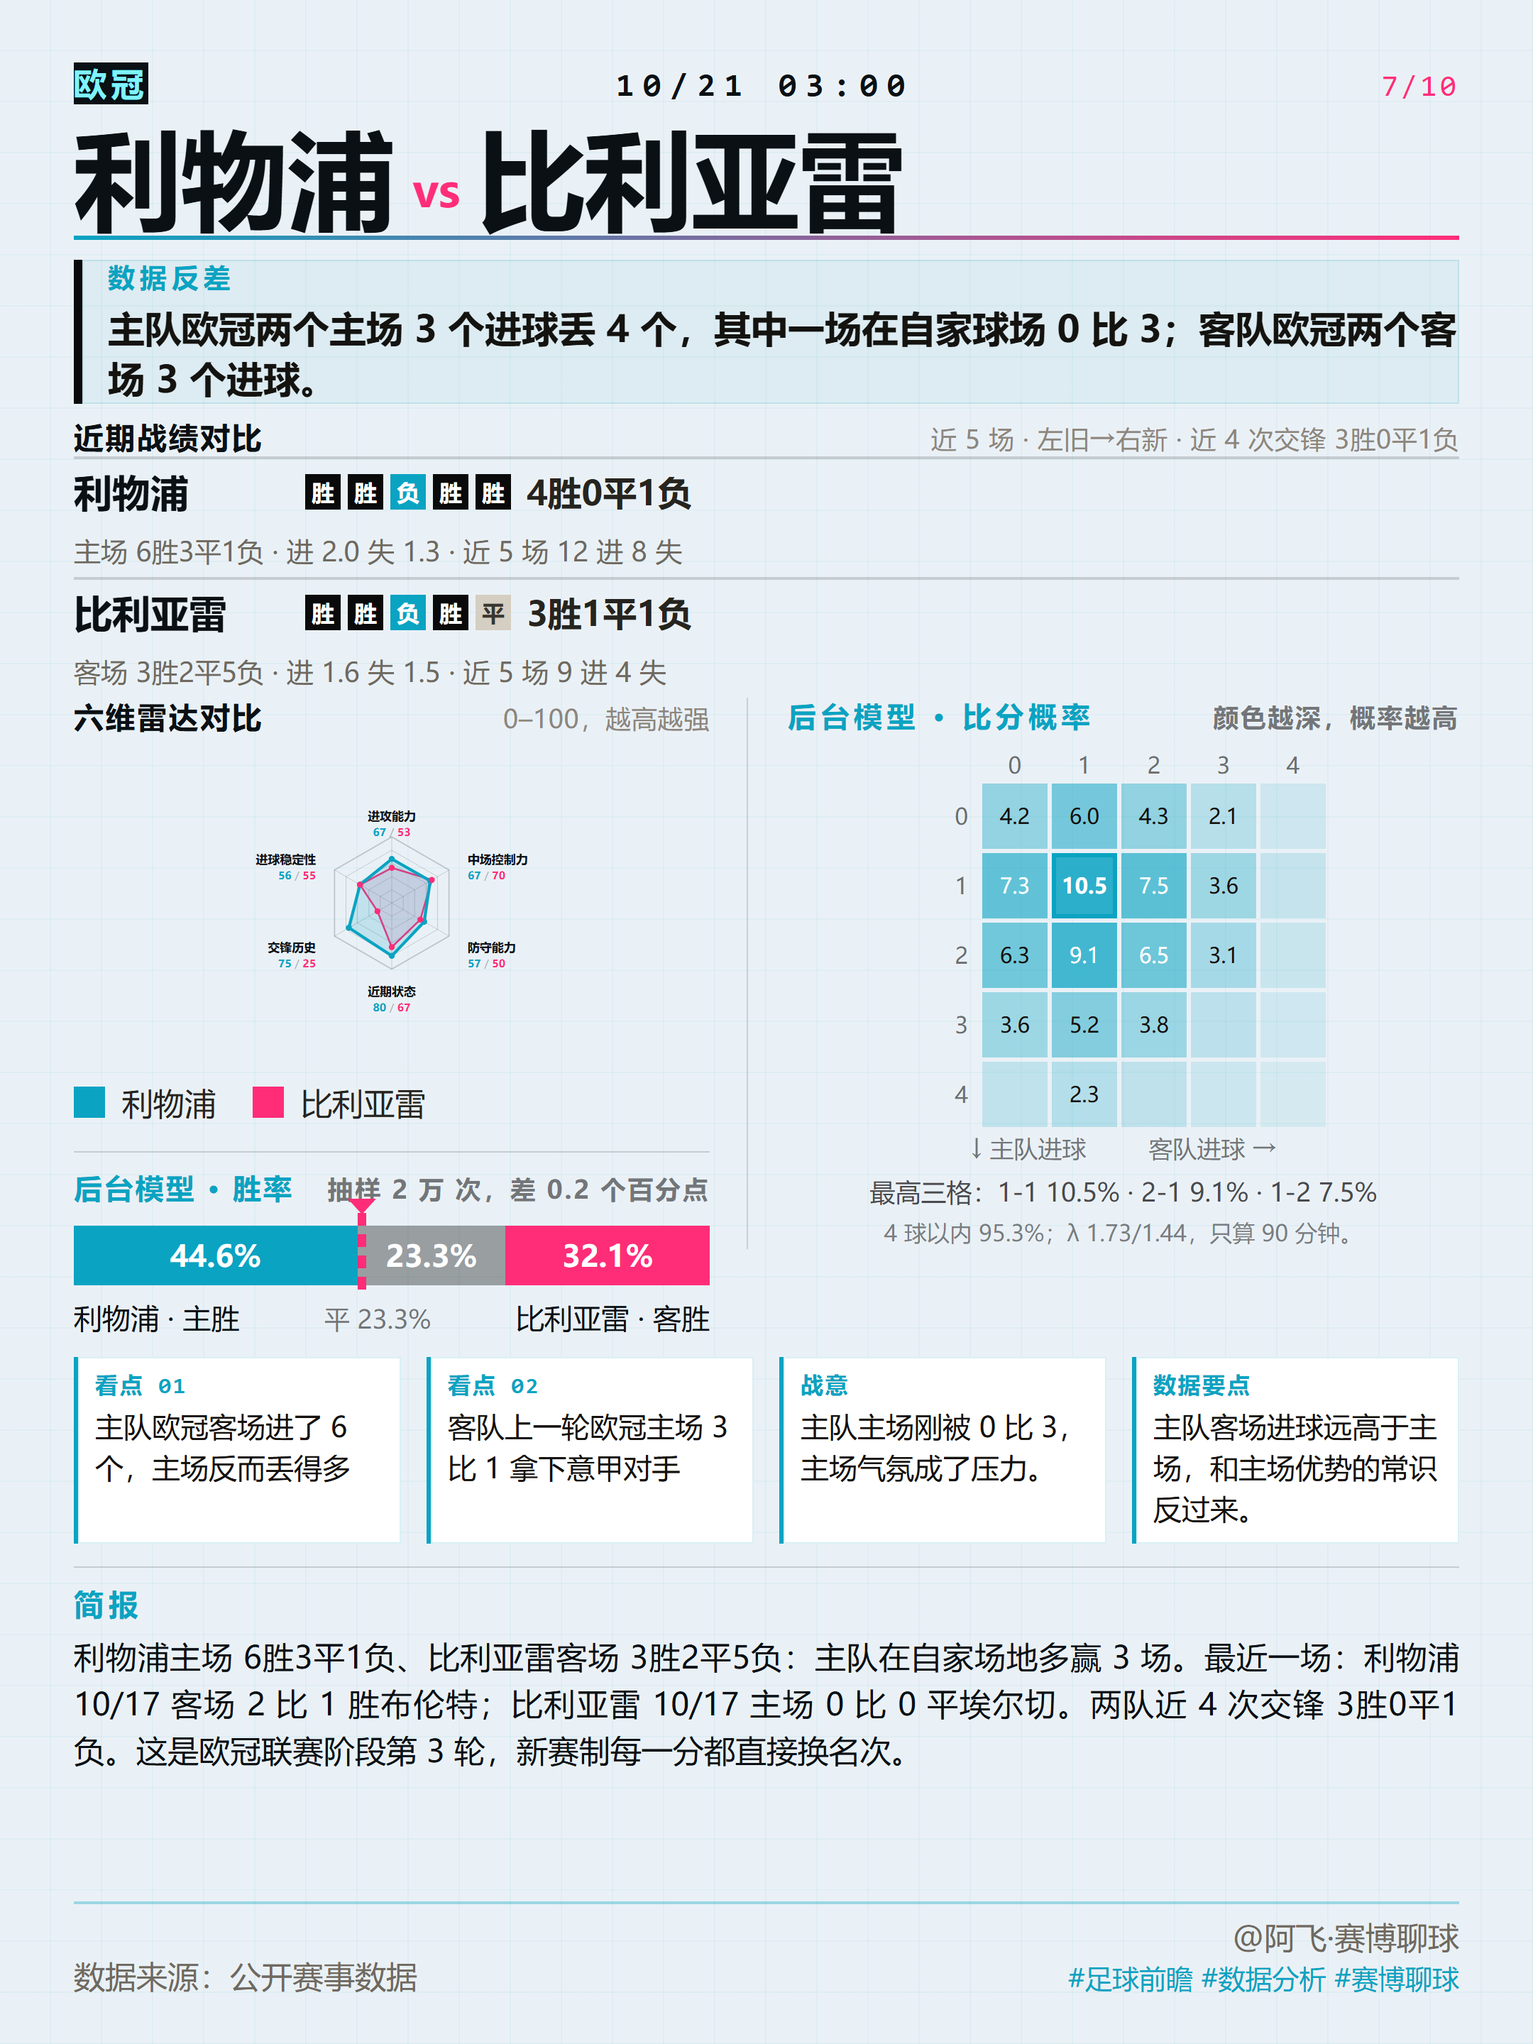
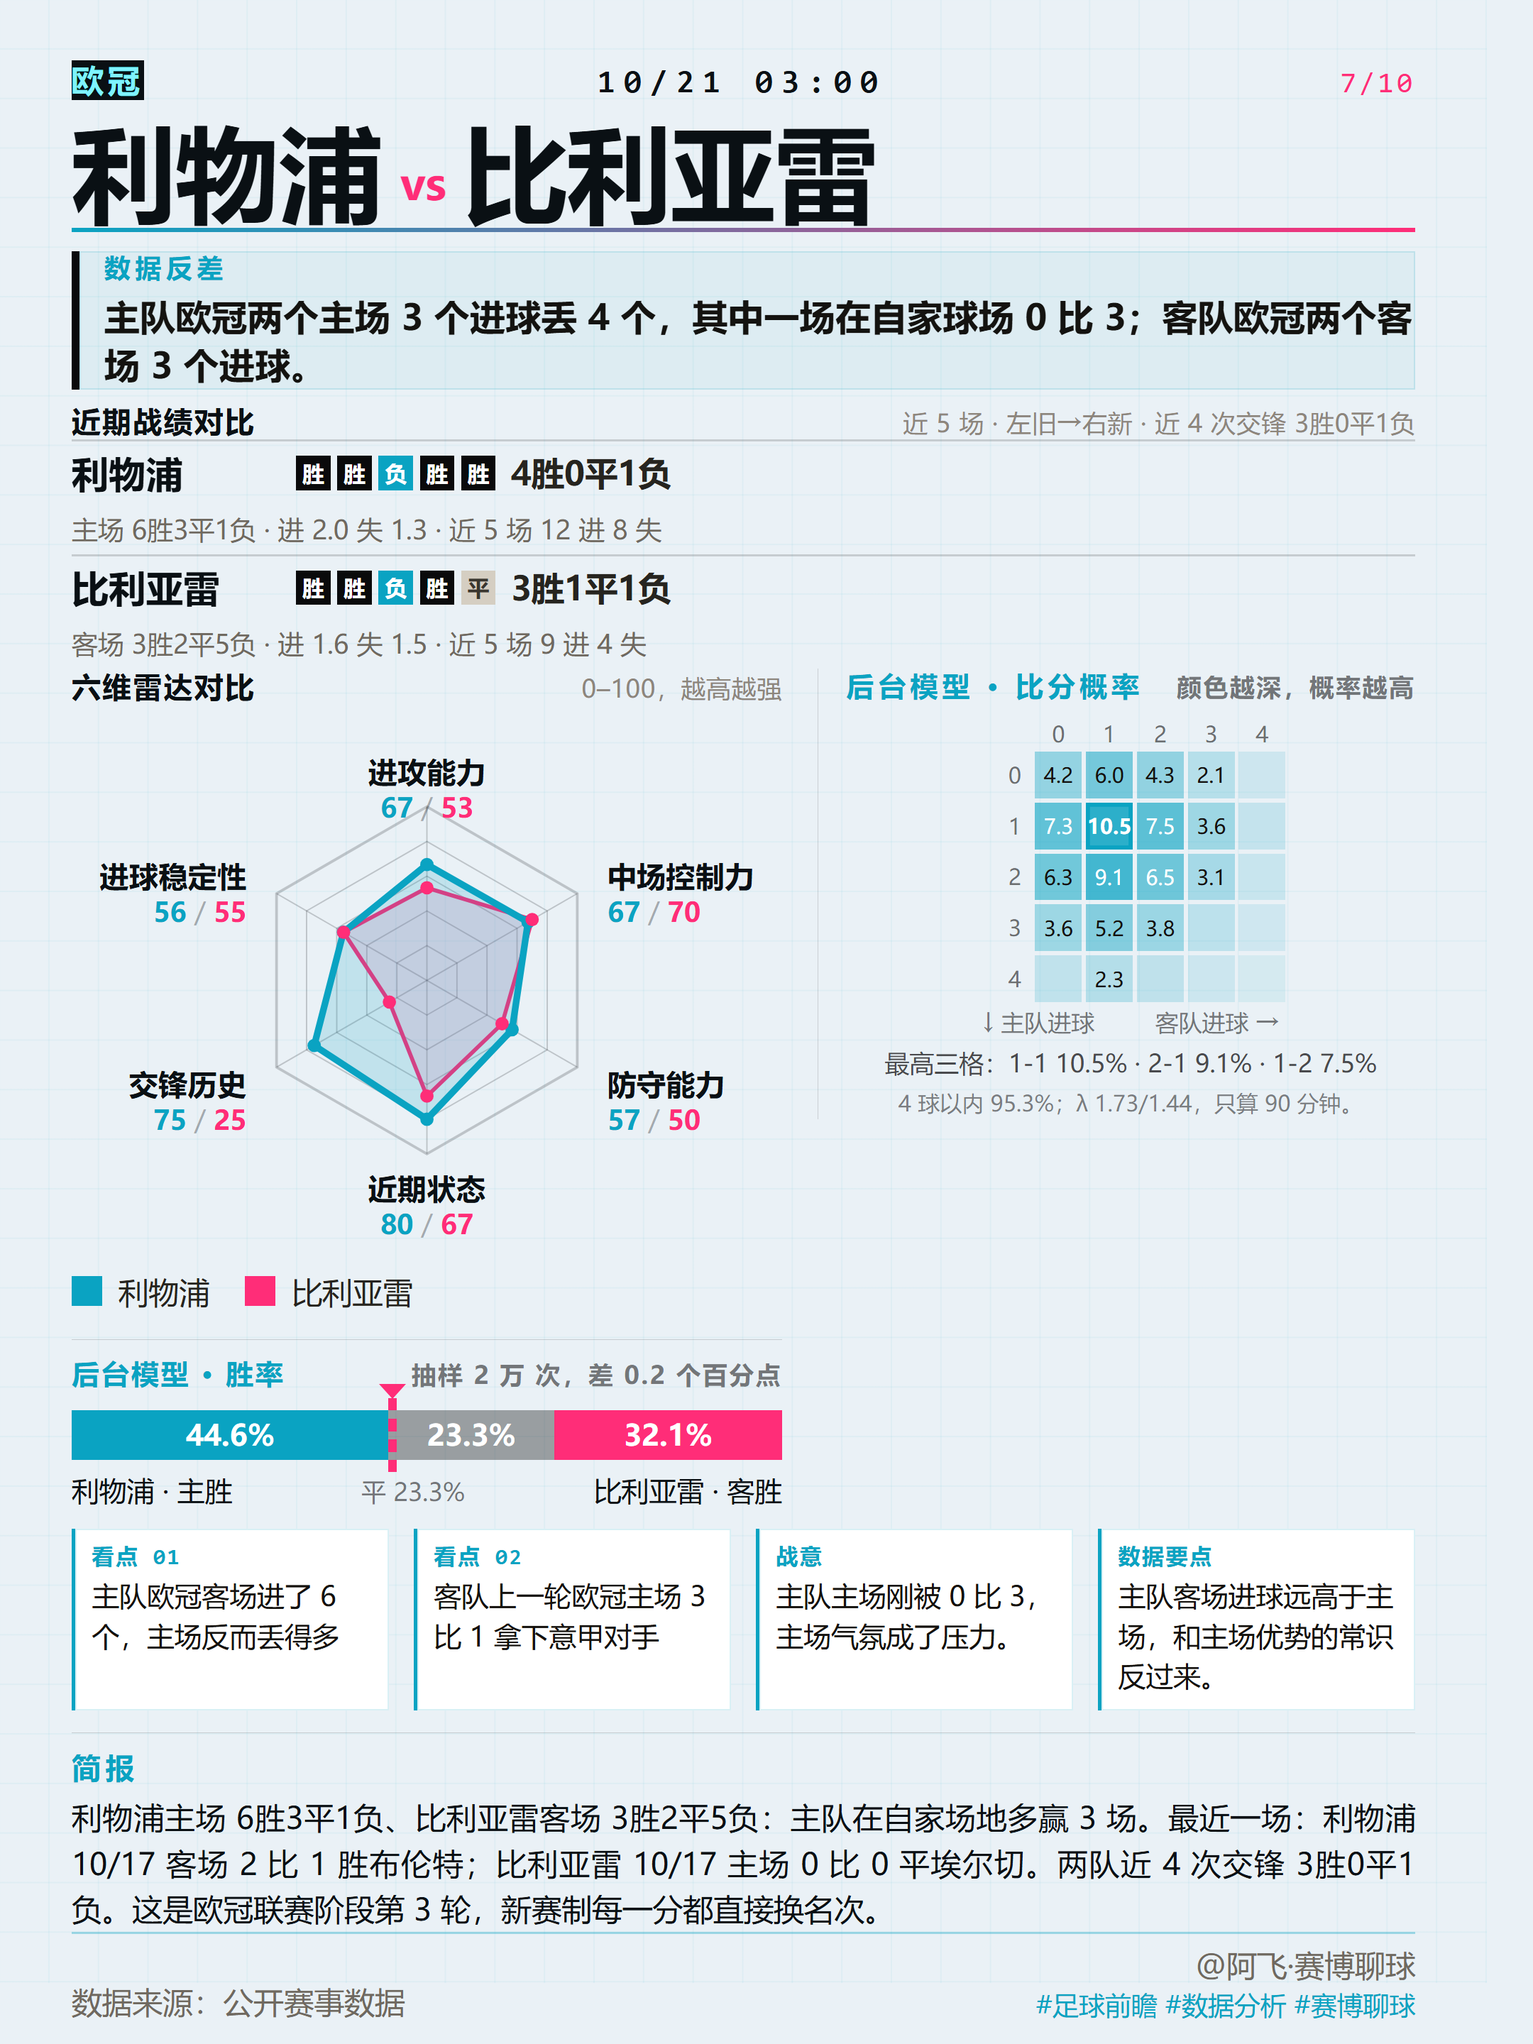
小红书周二九场：按7场深报重写内容、雷达字号放大2.6倍、未开售场次标注

diff --git a/scripts/xhs_html.py b/scripts/xhs_html.py
@@ -518,11 +518,12 @@ DATA_CSS = """
 /* ── 后台模型块：胜率条 + 比分概率热力图（2026-10-13 起并入同一张卡）──────
    用户 2026-10-12 拍板「模型结果要进卡片」，2026-10-13 再定「只出一张卡」，
    所以模型块不再单开一张，改成左右两栏：左栏＝六维雷达＋胜率条，右栏＝比分概率热力图。 */
-.card.data .viz .c1{flex:0 0 448px}
-.card.data .viz .c2{flex:1;min-width:0;padding-left:28px;border-left:1px solid rgba(10,10,11,.14)}
+.card.data .viz .c1{flex:0 0 516px}
+.card.data .viz .c2{flex:1;min-width:0;padding-left:20px;border-left:1px solid rgba(10,10,11,.14)}
+.card.data .viz .c2 .head2{white-space:nowrap}
 .card.data .viz .radar{margin-top:0;padding-top:0}
 /* 雷达默认会撑满栏宽（448px 栏→340px 方图），并进单卡后必须按 size 收住，否则整行 590px */
-.card.data .viz .radar .wrap svg{width:220px;height:220px;max-width:none;display:block;margin:0 auto}
+.card.data .viz .radar .wrap svg{width:516px;height:auto;max-width:none;display:block;margin:0 auto}
 .card.data .viz .wdl .head2{flex-wrap:nowrap;white-space:nowrap;margin-bottom:10px}
 .card.data .viz .wdl .lab{letter-spacing:.08em}
 .card.data .viz .wdl{margin-top:14px;padding-top:12px;border-top:1px solid rgba(10,10,11,.16)}
@@ -564,6 +565,7 @@ DATA_CSS = """
 .hax{display:flex;justify-content:center;gap:44px;font-size:17px;color:rgba(10,10,11,.55);margin-top:4px}
 .hfoot{margin-top:8px;font-size:18px;color:rgba(10,10,11,.72);text-align:center}
 .hnote{margin-top:6px;font-size:16px;line-height:1.45;color:rgba(10,10,11,.5);text-align:center}
+.hnote.mnote{margin-top:4px;color:rgba(10,10,11,.72);font-weight:600}
 .ed.data .wdl .lab,.ed.data .heat .lab{color:#9b5a2e;font-size:20px;font-weight:700;letter-spacing:.16em}
 """
 
@@ -722,8 +724,13 @@ def radar_svg(radar: dict, cluster: str, size: int = 300, label_font: int = 23) 
         c_home, c_away = "#9b5a2e", "#3f5f80"
         f_home, f_away = "rgba(155,90,46,.16)", "rgba(63,95,128,.10)"
         c_grid, c_lab, c_sep = "rgba(10,10,11,.20)", "#26241f", "rgba(10,10,11,.32)"
-    px, py = size + 300, size + 150   # 横向多留 300：六轴标签（5 个字）要比纵向更宽
-    cx, cy, r = px / 2.0, py / 2.0 + 4, size / 2.0
+    # 画布按标签文字实际宽度算（2026-10-20 用户「雷达图要大一倍，数字看不清」）：
+    # 横向 = 圆半径 + 轴向留白 + 最长标签（5 字），纵向 = 顶部标签两行（名字 + 数值）。
+    gap = 26
+    lab_w = label_font * 5
+    px = int(2 * (size / 2.0 + gap + lab_w))
+    py = int(2 * (size / 2.0 + gap + label_font * 2))
+    cx, cy, r = px / 2.0, py / 2.0, size / 2.0
 
     def axis(i):
         a = math.radians(-90 + 360.0 / n * i)
@@ -758,7 +765,7 @@ def radar_svg(radar: dict, cluster: str, size: int = 300, label_font: int = 23) 
     labels = ""
     for i, d in enumerate(dims):
         ca, sa = axis(i)
-        lx, ly = cx + (r + 36) * ca, cy + (r + 36) * sa + 8
+        lx, ly = cx + (r + gap) * ca, cy + (r + gap) * sa + 8
         anchor = "middle" if abs(ca) < 0.3 else ("start" if ca > 0 else "end")
         labels += ('<text x="%.1f" y="%.1f" text-anchor="%s" font-size="%d" font-weight="700" '
                    'fill="%s">%s</text>' % (lx, ly, anchor, label_font, c_lab, esc(d)))
@@ -766,7 +773,7 @@ def radar_svg(radar: dict, cluster: str, size: int = 300, label_font: int = 23) 
                    '<tspan fill="%s" font-weight="700">%.0f</tspan>'
                    '<tspan fill="%s"> / </tspan>'
                    '<tspan fill="%s" font-weight="700">%.0f</tspan></text>'
-                   % (lx, ly + 26, anchor, label_font - 2, c_home, hv[i], c_sep, c_away, av[i]))
+                   % (lx, ly + label_font + 4, anchor, label_font - 2, c_home, hv[i], c_sep, c_away, av[i]))
     return ('<svg width="%d" height="%d" viewBox="0 0 %d %d" xmlns="http://www.w3.org/2000/svg">%s%s%s%s%s%s</svg>'
             % (px, py, px, py, grid, polygon(av, c_away, f_away, 3), polygon(hv, c_home, f_home, 5),
                dots, labels, ""))
@@ -846,9 +853,9 @@ def radar_html(card: dict, cluster: str, size: int = 300, label_font: int = 23) 
 # --------------------------------------------------------------------------- #
 TEMPLATES = ("A", "B", "C")
 TPL_NAME = {"A": "战绩在前", "B": "简报提前", "C": "简报开篇"}
-TPL_HEAT = {"A": 46, "B": 48, "C": 44}       # 热力图单格边长
-TPL_BAR = {"A": 42, "B": 46, "C": 38}        # 胜率条高度
-TPL_RADAR = {"A": 220, "B": 205, "C": 235}
+TPL_HEAT = {"A": 34, "B": 36, "C": 32}       # 热力图单格边长
+TPL_BAR = {"A": 36, "B": 40, "C": 34}        # 胜率条高度
+TPL_RADAR = {"A": 260, "B": 250, "C": 270}
 TPL_STATE = Path(ROOT) / "state" / "xhs_templates.json"
 
 
@@ -981,9 +988,10 @@ def heat_html(card: dict, tpl: str = "A") -> str:
             '<div class="hgrid" style="grid-template-columns:40px repeat(%d,var(--cell))">%s</div>'
             '<div class="hax"><span>↓ 主队进球</span><span>客队进球 →</span></div>'
             '<div class="hfoot">最高三格：%s</div>'
-            '<div class="hnote">%d 球以内 %.1f%%；λ %.2f/%.2f，只算 90 分钟。</div></section>'
+            '<div class="hnote">%d 球以内 %.1f%%；λ %.2f/%.2f，只算 90 分钟。</div>%s</section>'
             % (cell, n, "".join(cells), esc(foot),
-               n - 1, shown * 100, float(lam[0]), float(lam[1])))
+               n - 1, shown * 100, float(lam[0]), float(lam[1]),
+               ('<div class="hnote mnote">%s</div>' % esc(md.get("note"))) if md.get("note") else ""))
 
 
 def vizrow_html(card: dict, cluster: str, tpl: str = "A", heat_left: bool = False) -> str:
@@ -991,7 +999,7 @@ def vizrow_html(card: dict, cluster: str, tpl: str = "A", heat_left: bool = Fals
 
     没跑过 xhs_model.py（卡片里没有 model）时退回「雷达｜战意与要点」，不影响出图。
     """
-    rz = radar_html(card, cluster, TPL_RADAR.get(tpl, 220), 20)
+    rz = radar_html(card, cluster, TPL_RADAR.get(tpl, 260), 22)
     wd = wdl_html(card, tpl)
     ht = heat_html(card, tpl)
     if not ht:

diff --git a/📝文章/20261020/小红书_周二九场/文案.md b/📝文章/20261020/小红书_周二九场/文案.md
@@ -2,23 +2,23 @@
 
 【正文】
 
-费内巴切 对 斯拉维亚：主队近十场场均进 2.2 丢 1.0，欧冠主场两场进 11 个没丢球；上一个欧冠客场却被灌 6 个。客队欧冠两个客场丢 4 个，联赛里照样赢球。交锋三场全部分出胜负。
+费内巴切 对 斯拉维亚：主队近十场场均进 2.2 丢 1.0，欧冠主场两场进 11 个没丢球；上一个欧冠客场却被灌 6 个。客队欧冠两个客场丢 4 个，联赛里照样赢球，可两轮过去两队都还没赢过。
 
-萨巴赫 对 多特蒙德：客队欧冠三个客场只进 1 个球，两场把对手摁成零封；主队欧冠主场两场进了 5 个，联赛近五轮四胜一平。同一份数据，两台算法的方向完全相反。
+萨巴赫 对 多特蒙德：客队欧冠三个客场只进 1 个球，联赛近三轮也没赢；主队刚 2 比 0 拿下斯拉维亚，拿到队史欧冠首胜。两轮过后主队、客队都是 3 分，两台算法的方向完全相反。
 
-那不勒斯 对 博德闪耀：主队欧冠主场两场 4 个进球没丢球，可近四场只赢一场。客队欧冠客场三场 9 个进球，连杯赛都能踢出 6 比 2。主队主场还零封，客队客场场均近 3 球，状态曲线是反的。
+那不勒斯 对 博德闪耀：主队欧冠主场两场 4 个进球没丢球，可近四场只赢一场、两轮全败排第 32；客队欧冠客场三场 9 个进球，连杯赛都能踢出 6 比 2。主队主场零封，客队客场场均近 3 球，曲线是反的。
 
-罗马 对 布拉迪斯：主队欧冠三个主场 7 个进球也丢 6 个，没有零封；客队四个客场 9 个进球，对手都在本国联赛，欧冠主场刚被 3 比 0。两队场均进球一样，丢球数差一大截。
+罗马 对 布拉迪斯：主队欧冠三个主场 7 个进球也丢 6 个，没有零封；客队四个客场 9 个进球，对手都在本国联赛，欧冠主场刚被 3 比 0。这场还没开售，模型按纪律跳过，只做球队面对比。
 
-巴黎圣曼 对 巴萨：客队欧冠客场三场 12 个进球，同主客十场全胜；主队近五场也全胜，硬仗在曼城主场 4 比 2 拿下。两队欧冠交手四场只有一场平局，打法都不留退路。
+巴黎圣曼 对 巴萨：客队欧冠客场三场 12 个进球，同主客十场全胜；主队近五场也全胜，硬仗在曼城主场 4 比 2 拿下。两轮后两队同积 6 分，净胜球都是 +7，进球与失球各差一个。交锋四场只有一场平局。
 
-利物浦 对 比利亚雷：主队欧冠两个主场 3 个进球丢 4 个，其中一场在自家 0 比 3；客场反倒进了 6 个。客队欧冠两个客场 3 个进球。交锋四场主队三胜，历史面和当下状态不在一条线上。
+利物浦 对 比利亚雷：主队欧冠两个主场 3 个进球丢 4 个，其中一场在自家 0 比 3；客场反倒进了 6 个。客队欧冠两个客场 3 个进球，上半场占六成。交锋四场主队三胜，历史面和当下状态不在一条线上。
 
-曼城 对 雅典AEK：主队欧冠四个主场 15 个进球也丢 9 个，上一个欧冠主场 2 比 4 输给巴黎；客队欧冠客场 1 比 3 输给顿矿工。两队场均进球一样，主队失球多出六成。
+曼城 对 雅典AEK：主队欧冠四个主场 15 个进球也丢 9 个，上一个欧冠主场 2 比 4 输给巴黎；客队欧冠客场 1 比 3 输给顿矿工，联赛客场却只丢 5 个。这场还没开售，模型按纪律跳过，只做球队面对比。
 
-斯图加特 对 马竞：主队主场两场 8 个进球一球未失，但都是俱乐部赛，含金量要打折。客队近五场全胜，含欧冠主场 2 比 0 拿下曼联，对手里三个是西甲队。主队主场反倒没有硬仗样本。
+斯图加特 对 马竞：主队主场两场 8 个进球一球未失，但都是俱乐部赛，含金量要打折；两轮后主队 6 分排第 4，客队 3 分排第 15。客队近五场全胜，含欧冠主场 2 比 0 拿下曼联，对手里三个是西甲队。
 
-波尔图 对 埃因霍温：客队欧冠三个客场全败丢 6 个，两场输给联赛中下游；主队欧冠主场 3 比 1 赢过本菲卡，也 0 比 2 输给曼城。唯一一次交手客队赢过 3 比 0。
+波尔图 对 埃因霍温：客队欧冠三个客场全败丢 6 个，两场输给下游球队；主队欧冠主场 3 比 1 赢过本菲卡，也 0 比 2 输给曼城，两场都丢球。唯一一次交手客队赢过 3 比 0。两轮过后主队 0 分、客队 1 分。
 
 #足球前瞻 #数据分析 #赛博聊球
 数据来源：公开赛事数据

diff --git a/📚知识库/写作指南/小红书图文卡片.md b/📚知识库/写作指南/小红书图文卡片.md
@@ -162,6 +162,17 @@ python scripts/xhs_model.py --input "..." --n-mc 50000 --force                  
 - 雷达配色写死在 `radar_svg()`/`radar_html()` 的 `if cluster == ...` 链里，**新增风格要同步加一支**（cyber = 青/品红），否则雷达仍是赭石+钢蓝。
 - 底一定留浅的：`heat_html` 给热力格**内联**写了 `color:#14110d`，CSS 盖不住；深底方案会直接读不出数字。
 
+### ⚠ 雷达字号太小（2026-10-20 用户「雷达图要大一倍，数字看不清」）
+
+根因不是字号参数小，而是**画布被 CSS 强行缩下去**：`radar_svg()` 的 viewBox 是 `size+300 × size+150`（220 直径 → 520×370），CSS 却把 svg 固定成 `220×220`，缩放比 0.42——22 号字落到图上只有 8～9px。
+
+修法（数据向单卡）：
+- `radar_svg()` 画布改成按标签算：`px = 2*(size/2 + 26 + label_font*5)`、`py = 2*(size/2 + 26 + label_font*2)`，画布≈显示尺寸，缩放比≈1；
+- `TPL_RADAR = {"A":300,"B":285,"C":310}` → 实际用 **A 260 / B 250 / C 270**，`label_font=22`（图上 22px，是原来的 2.6 倍）；
+- 列宽让位：`.viz .c1{flex:0 0 516px}`、`.viz .radar .wrap svg{width:516px;height:auto}`；
+- 热力图缩格子：`TPL_HEAT = {"A":34,"B":36,"C":32}`、`TPL_BAR = {"A":36,"B":40,"C":34}`，否则雷达撑高会顶到底部（第一版直接 `底部仅 0px` 裁掉页脚）；
+- 一屏装不下真 2 倍直径（440 直径的六轴雷达连标签约 700px 高），**能翻倍的是字**；要再大只能减块（去简报或拆第二张「雷达页」）。
+
 ## 一张卡装什么（⚠ 旧「全信息单卡」形态，仅作代码参考：`--kind all`）
 
 用户原话：**「卡片图片每期还是多样化。但其中要包含核心矛盾，本次看点，战意，信号。加上两队近期战绩对比。再贴一个六维雷达对比图」**

diff --git a/docs/HANDOFF.md b/docs/HANDOFF.md
@@ -3728,3 +3728,11 @@ bash scripts/gh_labels_setup.sh
 
 1. 看图后如要调：`--style cyber` 重出即可（cards.json 已写 `"style":"cyber"`、`"template":"A"`，重出不跳风格/版式）。
 2. 下一批按账本轮换回 **editorial + 模板 B**。
+
+### 六、补充：按 7 场深报重写 + 雷达放大（2026-10-20 二轮）
+
+- **口径来源更正**：首版卡片用的是 `20261020_周二全盘分析报告.md`（9 场简版）+ `state/intel/20261020/_intel_20261020.md` + 模型文件 + 本地缓存；**没读** `20261020_周二欧冠7场_内部分析报告.md`（869 行，含积分榜／零封率／上半场进球占比／外媒倾向／收敛剧本）。二轮已按它重写 7 场，005/008 它没覆盖（未开售无让球），由卡片自行补球队面并标注「这场还没开售，模型按纪律跳过」。
+- **新增到卡上的事实**：001 主队 1 平 1 负排第 28／客队两负第 31；002 主队 2 比 0 斯拉维亚拿到队史欧冠首胜、客队上半场进球只占一成；004 主队两轮全败第 32；006 两队同积 6 分、净胜球都是 +7；007 客队上半场进球占六成；009 主队 6 分第 4／客队 3 分第 15；010 主队欧冠零封率是零、两轮 0 分。
+- **模型块加 `note`**：`heat_html` 读 `model.note`，005/008 显示「本场还没开售，图为按同主客与近十场的试算，不作模型读数。」（CSS `.hnote.mnote`）。
+- **正文压到 997 字**（脚本按【正文】原文长度算，含换行；上一版 1028 被判超限）。
+- **雷达放大**：`radar_svg()` 画布改成按标签宽高算（缩放比≈1）、`TPL_RADAR` A260 / `label_font=22`、`.viz .c1=516px`、`TPL_HEAT` A34 / `TPL_BAR` A36。图上 22px＝原来的 2.6 倍；直径 220→260。真 2 倍直径一屏放不下（六轴带标签约 700px 高），已写进文档。
